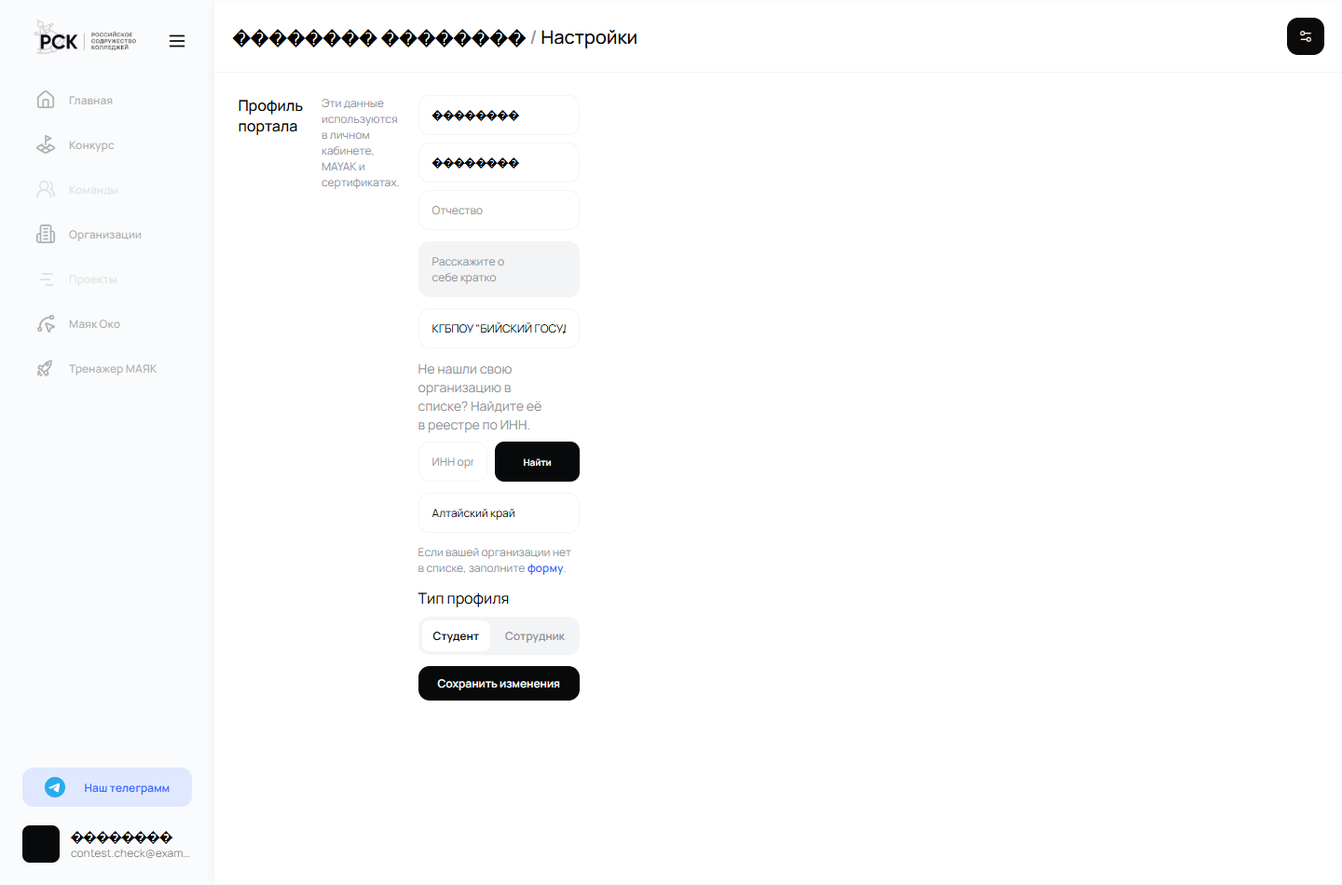
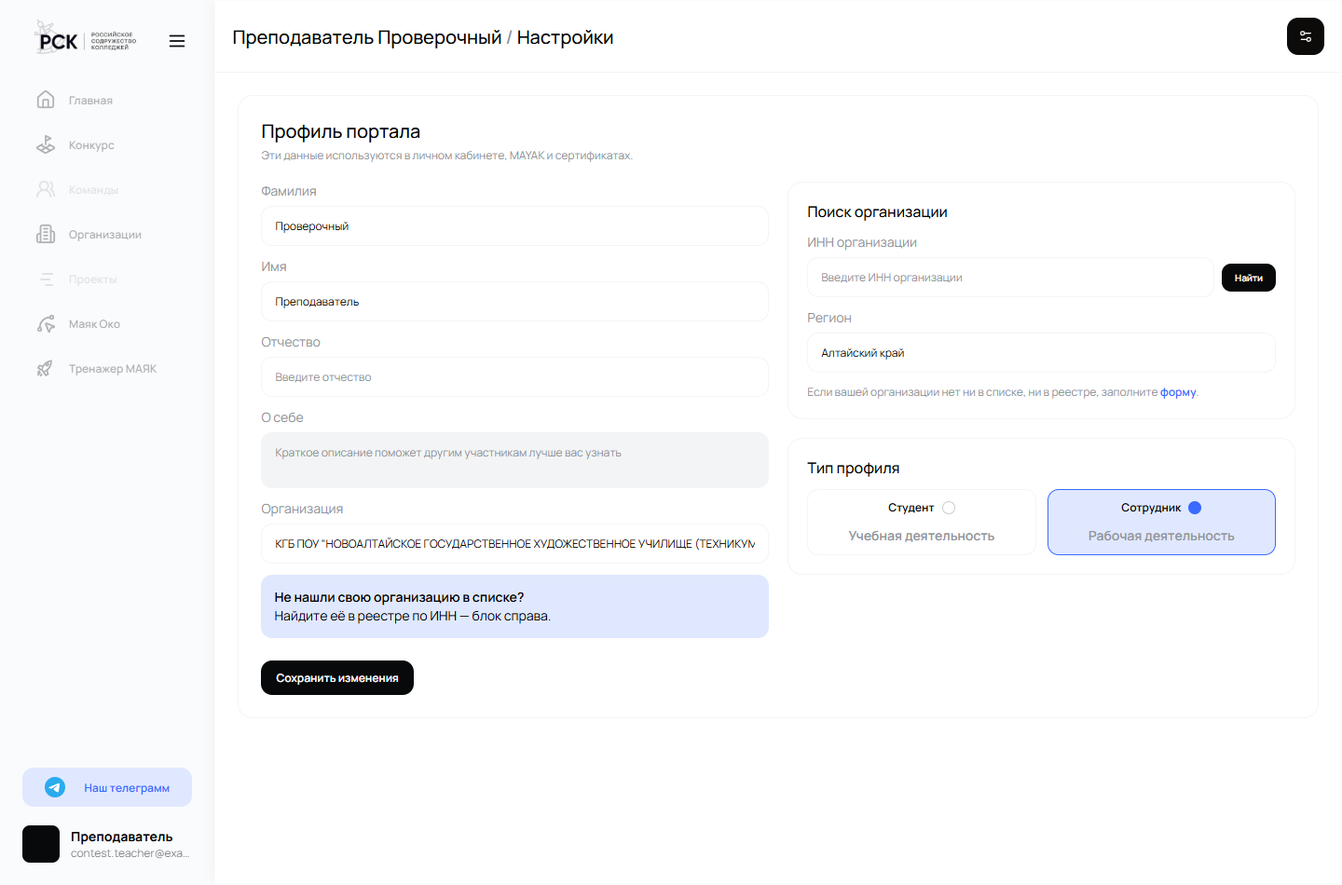
style(profile): настройки профиля в две колонки с карточками
Форма шла одной узкой лентой: на широком экране занимала треть ширины,
поиск организации терялся между полями, а подписи держались только на
плейсхолдерах и исчезали при вводе.

- слева человек: фамилия, имя, отчество, о себе, организация и подсказка
  про поиск по ИНН; справа карточки «Поиск организации» и «Тип профиля»;
- у каждого поля появилась подпись над ним;
- тип профиля выбирается карточками с пояснением, а не переключателем;
- кнопка «Найти» больше не растягивается на половину карточки, подсказка
  реестра рисуется светлой карточкой вместо чёрной кнопки.

Ширину чинит col-span-12: .hero — сетка из 12 колонок, и без него карточка
занимала одну, отчего поля наезжали друг на друга.

diff --git a/src/components/features/auth/PortalProfileEditor.js b/src/components/features/auth/PortalProfileEditor.js
@@ -31,6 +31,54 @@ function buildInitialFormState(profilePayload) {
     };
 }
 
+// Подпись над полем: в макете у каждого поля есть название, а плейсхолдер
+// исчезает при вводе и перестаёт объяснять, что именно заполнено.
+function Field({ label, children }) {
+    return (
+        <label className="flex flex-col gap-[0.375rem]">
+            <span className="text-sm" style={{ color: "var(--color-gray-black)" }}>
+                {label}
+            </span>
+            {children}
+        </label>
+    );
+}
+
+// Тип профиля карточками, а не переключателем: у каждого варианта есть
+// пояснение, и промахнуться сложнее.
+function RoleCard({ value, current, onSelect, title, hint }) {
+    const isActive = current === value;
+    return (
+        <button
+            type="button"
+            onClick={() => onSelect(value)}
+            className="flex flex-col gap-[0.25rem] p-[0.875rem] rounded-[0.75rem] text-left transition"
+            style={{
+                border: `1.5px solid ${isActive ? "var(--color-blue)" : "var(--color-gray-plus-50)"}`,
+                background: isActive ? "var(--color-blue-noise)" : "transparent",
+            }}>
+            <span className="flex items-center justify-between gap-[0.5rem]">
+                {/* Цвет задаём явно: у неактивной карточки текст сливался с фоном. */}
+                <span className="big" style={{ fontWeight: 600, color: "var(--color-black)" }}>
+                    {title}
+                </span>
+                <span
+                    className="inline-block rounded-full"
+                    style={{
+                        width: "0.875rem",
+                        height: "0.875rem",
+                        border: `1.5px solid ${isActive ? "var(--color-blue)" : "var(--color-gray-white)"}`,
+                        background: isActive ? "var(--color-blue)" : "transparent",
+                    }}
+                />
+            </span>
+            <span className="text-sm" style={{ color: "var(--color-gray-black)" }}>
+                {hint}
+            </span>
+        </button>
+    );
+}
+
 function resolveSelectedOrganization(orgList, organizationId) {
     return orgList.find((item) => String(item.id ?? item.organization_id ?? "") === String(organizationId || "")) || null;
 }
@@ -263,94 +311,151 @@ export default function PortalProfileEditor({
         }
     };
 
+    const handleOrgFromRegistry = (org) => {
+        const id = org?.id ?? org?.organization_id;
+        if (!id) return;
+
+        setOrgList((prev) => (prev.some((item) => String(item.id) === String(id)) ? prev : [...prev, org]));
+        updateField("Organization", String(id));
+        setOrgFieldTyped(true);
+        // Регион берём из реестра: он обязателен для команды, а руками участник
+        // впишет его иначе, чем в справочнике.
+        if (org.region) {
+            setRegion(org.region);
+            setFormData((prev) => ({ ...prev, Region: org.region }));
+        }
+    };
+
     const content = (
         <>
-            {title ? <h6>{title}</h6> : null}
-            {description ? <p className="text-(--color-gray-black)">{description}</p> : null}
-            <div className="flex flex-col gap-[0.75rem]">
-                <div className="flex gap-[0.75rem] max-[640px]:flex-col">
-                    <div className="flex flex-col gap-[0.5rem] flex-1">
-                        <Input type="text" name="Surname" placeholder="Фамилия" value={formData.Surname} onChange={(event) => updateField("Surname", event.target.value)} required />
-                        <Input type="text" name="NameIRL" placeholder="Имя" value={formData.NameIRL} onChange={(event) => updateField("NameIRL", event.target.value)} required />
-                        <Input type="text" name="Patronymic" placeholder="Отчество" value={formData.Patronymic} onChange={(event) => updateField("Patronymic", event.target.value)} />
+            {/* Раскладка в две колонки: слева кто участник, справа откуда он.
+                Раньше всё шло одной узкой лентой, и на широком экране форма
+                занимала треть ширины, а поиск организации терялся между полями. */}
+            <div className="flex flex-col gap-[1.25rem] p-[1.5rem] rounded-[1rem] max-[640px]:p-[1rem]" style={{ background: "var(--color-white)", border: "1.5px solid var(--color-gray-plus-50)" }}>
+                <div className="flex flex-col gap-[0.25rem]">
+                    <h5>{title || "Профиль портала"}</h5>
+                    <p className="text-sm" style={{ color: "var(--color-gray-black)" }}>
+                        {description || "Эти данные используются в личном кабинете, МАЯК и сертификатах."}
+                    </p>
+                </div>
+
+                <div className="grid grid-cols-2 gap-[1.25rem] items-start max-[900px]:grid-cols-1">
+                    {/* Левая колонка — человек */}
+                    <div className="flex flex-col gap-[0.75rem]">
+                        <Field label="Фамилия">
+                            <Input type="text" name="Surname" placeholder="Введите фамилию" value={formData.Surname} onChange={(event) => updateField("Surname", event.target.value)} required />
+                        </Field>
+                        <Field label="Имя">
+                            <Input type="text" name="NameIRL" placeholder="Введите имя" value={formData.NameIRL} onChange={(event) => updateField("NameIRL", event.target.value)} required />
+                        </Field>
+                        <Field label="Отчество">
+                            <Input type="text" name="Patronymic" placeholder="Введите отчество" value={formData.Patronymic} onChange={(event) => updateField("Patronymic", event.target.value)} />
+                        </Field>
+
+                        {showDescription ? (
+                            <Field label="О себе">
+                                <Textarea inverted name="Description" placeholder="Краткое описание поможет другим участникам лучше вас узнать" value={formData.Description} onChange={(event) => updateField("Description", event.target.value)} />
+                            </Field>
+                        ) : null}
+
+                        <Field label="Организация">
+                            <DropdownInput
+                                ref={orgDropdownRef}
+                                id="Organization"
+                                name="Organization"
+                                placeholder={region ? "Выберите организацию" : "Сначала выберите регион"}
+                                value={formData.Organization}
+                                options={orgList}
+                                onChange={(event) => updateField("Organization", event.target.value)}
+                                onQueryChange={() => setOrgFieldTyped(true)}
+                                disabled={!region}
+                            />
+                        </Field>
+
+                        <div className="flex gap-[0.625rem] p-[0.875rem] rounded-[0.75rem]" style={{ background: "var(--color-blue-noise)" }}>
+                            <span className="text-sm">
+                                <span style={{ fontWeight: 600 }}>Не нашли свою организацию в списке?</span>
+                                <br />
+                                Найдите её в реестре по ИНН — блок справа.
+                            </span>
+                        </div>
+                    </div>
+
+                    {/* Правая колонка — откуда участник */}
+                    <div className="flex flex-col gap-[1.25rem]">
+                        <div className="flex flex-col gap-[0.75rem] p-[1.25rem] rounded-[1rem] max-[640px]:p-[1rem]" style={{ border: "1.5px solid var(--color-gray-plus-50)" }}>
+                            <h6>Поиск организации</h6>
+
+                            <Field label="ИНН организации">
+                                {/* Организации из реестра: список в базе неполный, и без
+                                    этого участник из непопавшего колледжа не двигается. */}
+                                <OrgRegistrySearch showHint={false} onSelected={handleOrgFromRegistry} />
+                            </Field>
+
+                            <Field label="Регион">
+                                <DropdownInput
+                                    id="Region"
+                                    name="Region"
+                                    placeholder="Выберите регион"
+                                    value={region}
+                                    onChange={(event) => {
+                                        const nextRegion = event.target.value || "";
+                                        setRegion(nextRegion);
+                                        setFormData((prev) => ({
+                                            ...prev,
+                                            Region: nextRegion,
+                                            Organization: "",
+                                        }));
+                                    }}
+                                    src="/data/regions.txt"
+                                />
+                            </Field>
+
+                            <p className="text-sm" style={{ color: "var(--color-gray-black)" }}>
+                                Если вашей организации нет ни в списке, ни в реестре, заполните{" "}
+                                <Link target="_blank" className="text-(--color-blue)" href="https://forms.yandex.ru/u/690391e1068ff0a3ba625eef">
+                                    форму
+                                </Link>
+                                .
+                            </p>
+                        </div>
+
+                        {showRole ? (
+                            <div className="flex flex-col gap-[0.75rem] p-[1.25rem] rounded-[1rem] max-[640px]:p-[1rem]" style={{ border: "1.5px solid var(--color-gray-plus-50)" }}>
+                                <h6>Тип профиля</h6>
+                                <div className="grid grid-cols-2 gap-[0.75rem] max-[640px]:grid-cols-1">
+                                    <RoleCard value="student" current={role} onSelect={setRole} title="Студент" hint="Учебная деятельность" />
+                                    <RoleCard value="teacher" current={role} onSelect={setRole} title="Сотрудник" hint="Рабочая деятельность" />
+                                </div>
+                            </div>
+                        ) : null}
                     </div>
                 </div>
 
-                {showDescription ? <Textarea inverted name="Description" placeholder="Расскажите о себе кратко" value={formData.Description} onChange={(event) => updateField("Description", event.target.value)} /> : null}
-
-                <DropdownInput
-                    ref={orgDropdownRef}
-                    id="Organization"
-                    name="Organization"
-                    placeholder="Организация"
-                    value={formData.Organization}
-                    options={orgList}
-                    onChange={(event) => updateField("Organization", event.target.value)}
-                    onQueryChange={() => setOrgFieldTyped(true)}
-                    disabled={!region}
-                />
-                {/* Организации из реестра: список в базе неполный, и без этого
-                    участник из непопавшего колледжа никуда не двигается. */}
-                <OrgRegistrySearch
-                    onSelected={(org) => {
-                        const id = org?.id ?? org?.organization_id;
-                        if (!id) return;
-
-                        setOrgList((prev) => (prev.some((item) => String(item.id) === String(id)) ? prev : [...prev, org]));
-                        updateField("Organization", String(id));
-                        setOrgFieldTyped(true);
-                        // Регион берём из реестра: он обязателен для команды,
-                        // а руками участник впишет его иначе, чем в справочнике.
-                        if (org.region) {
-                            setRegion(org.region);
-                            setFormData((prev) => ({ ...prev, Region: org.region }));
-                        }
-                    }}
-                />
-                <DropdownInput
-                    id="Region"
-                    name="Region"
-                    placeholder="Регион"
-                    value={region}
-                    onChange={(event) => {
-                        const nextRegion = event.target.value || "";
-                        setRegion(nextRegion);
-                        setFormData((prev) => ({
-                            ...prev,
-                            Region: nextRegion,
-                            Organization: "",
-                        }));
-                    }}
-                    src="/data/regions.txt"
-                />
-                {!region ? <p className="text-(--color-gray-black)">Сначала выберите регион, после этого станет доступна организация.</p> : null}
-                <p className="text-(--color-gray-black)">
-                    Если вашей организации нет в списке, заполните{" "}
-                    <Link target="_blank" className="text-(--color-blue)" href="https://forms.yandex.ru/u/690391e1068ff0a3ba625eef">
-                        форму
-                    </Link>
-                    .
-                </p>
-
-                {showRole ? (
-                    <div className="flex flex-col gap-[0.5rem]">
-                        <span className="big">Тип профиля</span>
-                        <Switcher value={role} onChange={setRole}>
-                            <Switcher.Option value="student">Студент</Switcher.Option>
-                            <Switcher.Option value="teacher">Сотрудник</Switcher.Option>
-                        </Switcher>
-                    </div>
-                ) : null}
-
-                <Button onClick={handleSubmit} disabled={isSaving || !isDirty}>
-                    {isSaving ? "Сохранение..." : submitLabel}
-                </Button>
+                <div className="flex items-center justify-between gap-[1rem] pt-[0.25rem] max-[640px]:flex-col max-[640px]:items-stretch">
+                    <Button className="w-fit! max-[640px]:w-full!" onClick={handleSubmit} disabled={isSaving || !isDirty}>
+                        {isSaving ? "Сохранение..." : submitLabel}
+                    </Button>
+                    {!region ? (
+                        <span className="text-sm" style={{ color: "var(--color-gray-black)" }}>
+                            Организация станет доступна после выбора региона — или найдите её по ИНН.
+                        </span>
+                    ) : null}
+                </div>
             </div>
         </>
     );
 
     if (mode === "full") {
-        return <div className="hero grid-cols-1">{content}</div>;
+        // `.hero` — сетка из 12 колонок, и без col-span-12 карточка занимает
+        // одну колонку: форма сжимается в узкую ленту, а поля наезжают друг
+        // на друга. Tailwind-класс grid-cols-1 здесь не помогает — правило
+        // из spacing.css перебивает его.
+        return (
+            <div className="hero">
+                <div className="col-span-12">{content}</div>
+            </div>
+        );
     }
 
     return <div className="flex flex-col gap-[1rem] w-full">{content}</div>;

diff --git a/src/components/features/auth/OrgRegistrySearch.js b/src/components/features/auth/OrgRegistrySearch.js
@@ -12,7 +12,7 @@ import Input from "@/components/ui/Input/Input";
 //
 // Здесь он вводит название или ИНН, выбирает свою организацию из реестра, и она
 // заводится в базе. Название, регион и тип приходят из реестра, а не из формы.
-export default function OrgRegistrySearch({ onSelected }) {
+export default function OrgRegistrySearch({ onSelected, showHint = true }) {
     const [query, setQuery] = useState("");
     const [items, setItems] = useState(null);
     const [isSearching, setIsSearching] = useState(false);
@@ -75,26 +75,32 @@ export default function OrgRegistrySearch({ onSelected }) {
 
     return (
         <div className="flex flex-col gap-[.5rem]">
-            <span className="text-sm" style={{ color: "var(--color-gray-black)" }}>
-                Не нашли свою организацию в списке? Найдите её в реестре по ИНН.
-            </span>
+            {showHint && (
+                <span className="text-sm" style={{ color: "var(--color-gray-black)" }}>
+                    Не нашли свою организацию в списке? Найдите её в реестре по ИНН.
+                </span>
+            )}
 
-            <div className="flex gap-[.5rem] max-[640px]:flex-col">
-                <Input
-                    type="text"
-                    id="org-registry-query"
-                    name="org-registry-query"
-                    placeholder="ИНН организации"
-                    value={query}
-                    onChange={(event) => setQuery(event.target.value)}
-                    onKeyDown={(event) => {
-                        if (event.key === "Enter") {
-                            event.preventDefault();
-                            search();
-                        }
-                    }}
-                />
-                <Button small type="button" onClick={search} disabled={isSearching}>
+            <div className="flex gap-[.5rem] items-center max-[640px]:flex-col max-[640px]:items-stretch">
+                {/* Поле тянется, кнопка — по содержимому: иначе «Найти»
+                    расползается на половину карточки. */}
+                <div className="flex-1 min-w-0">
+                    <Input
+                        type="text"
+                        id="org-registry-query"
+                        name="org-registry-query"
+                        placeholder="Введите ИНН организации"
+                        value={query}
+                        onChange={(event) => setQuery(event.target.value)}
+                        onKeyDown={(event) => {
+                            if (event.key === "Enter") {
+                                event.preventDefault();
+                                search();
+                            }
+                        }}
+                    />
+                </div>
+                <Button small type="button" onClick={search} disabled={isSearching} className="w-fit! shrink-0 max-[640px]:w-full!">
                     {isSearching ? "Ищем..." : "Найти"}
                 </Button>
             </div>
@@ -111,7 +117,14 @@ export default function OrgRegistrySearch({ onSelected }) {
                             type="button"
                             onClick={() => pick(item)}
                             disabled={Boolean(pendingInn)}
-                            className="flex flex-col items-start gap-[.125rem] p-[.75rem] rounded-[.75rem] text-left border-solid border-[1.5px] border-(--color-gray-plus-50) hover:bg-(--color-gray-plus-50) transition">
+                            className="flex flex-col items-start gap-[.125rem] p-[.75rem] rounded-[.75rem] text-left transition"
+                            style={{
+                                // Цвета задаём явно: глобальный стиль кнопки красит
+                                // подсказку в чёрное, и она выпадает из карточки.
+                                background: "var(--color-white)",
+                                color: "var(--color-black)",
+                                border: "1.5px solid var(--color-gray-plus-50)",
+                            }}>
                             <span className="link">{item.short_name || item.full_name}</span>
                             <span className="text-sm" style={{ color: "var(--color-gray-black)" }}>
                                 ИНН {item.inn}
